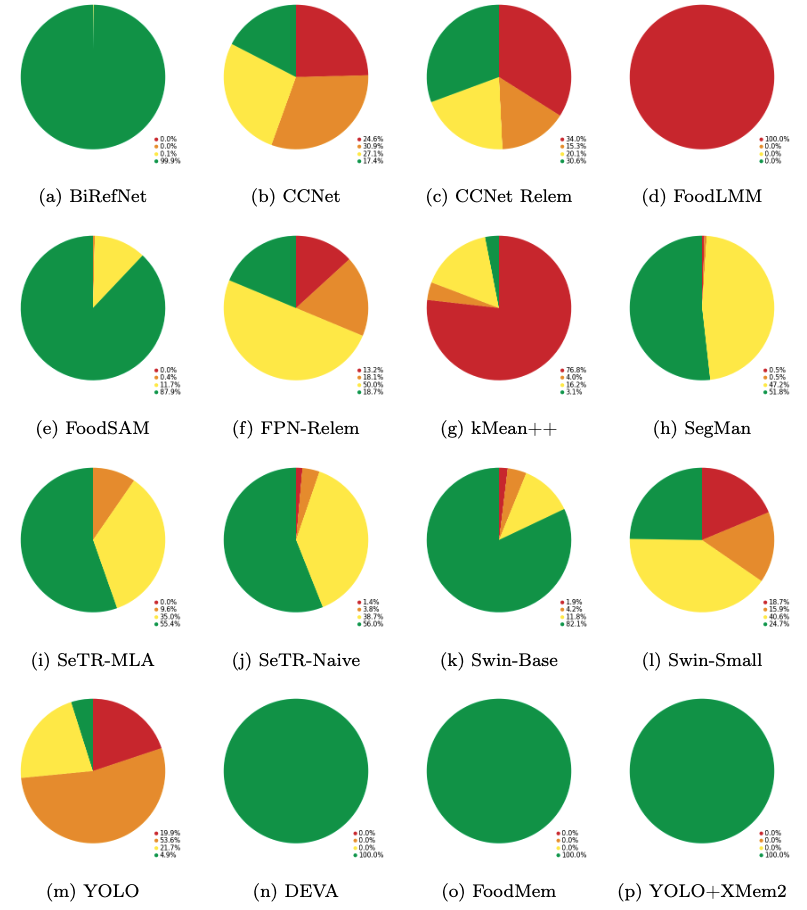
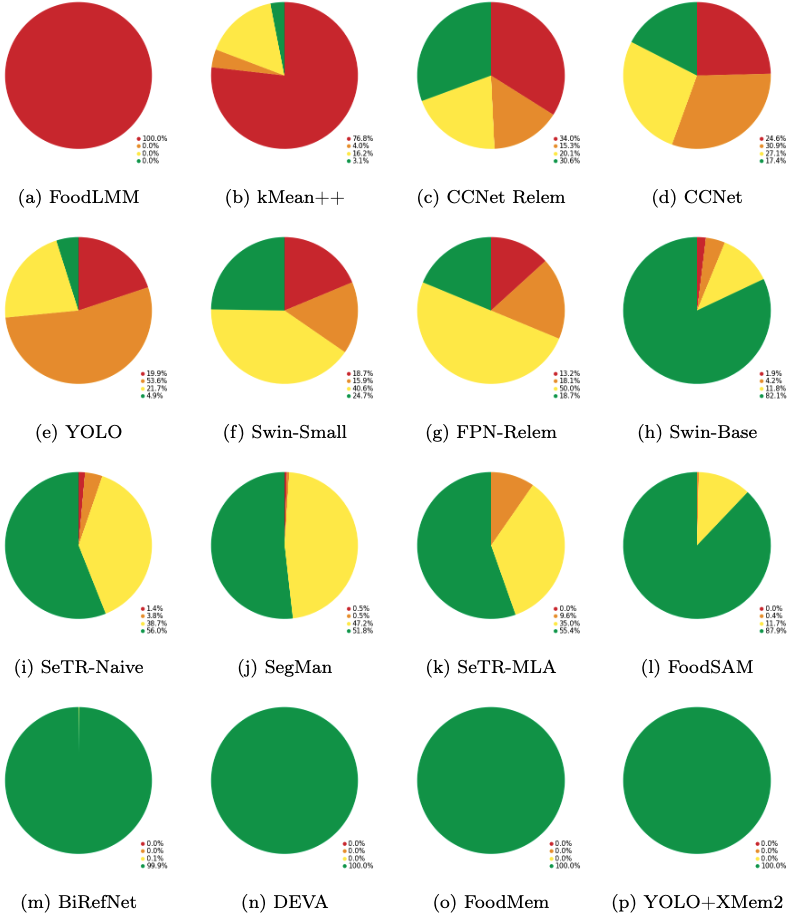
BenchSeg

diff --git a/BenchSeg/index.html b/BenchSeg/index.html
@@ -80,13 +80,13 @@
                         <a href="#">
                             Hyunjun Jung
                         </a>
-                        <br>Technische Universität München
+                        <br>Technical University of Munich
                     </li>
                     <li class="list-inline-item author-item">
                         <a href="#">
                             Benjamin Busam
                         </a>
-                        <br>Technische Universität München
+                        <br>Technical University of Munich
                     </li>
                     <li class="list-inline-item author-item">
                         <a href="https://ricjm.github.io/">
@@ -117,9 +117,9 @@
                         </a>
                     </div>
                     <div class="pretrained-models" style="display: flex; flex-direction: column; align-items: center;">
-                        <a href="https://ubarcelona-my.sharepoint.com/:f:/g/personal/ahmad_almughrabi_ub_edu/IgCx8aqExIkET5Oc4SYkXx4LAU90ktza5oF0rYaRtMyJJ0Y?e=nChKFZ" style="display: flex; flex-direction: column; align-items: center; text-decoration: none;">
+                        <a href="https://ubarcelona-my.sharepoint.com/:u:/g/personal/ahmad_almughrabi_ub_edu/IQCvxTYvwLEXRohtfOP8a7QsAQMvgWsfI42CKtXNUpM_5uI?e=Xx1fLs" style="display: flex; flex-direction: column; align-items: center; text-decoration: none;">
                             <img src="imgs/pretrainedmodels.png" alt="Pretrained Models Icon" style="width:60px;height:60px;">
-                            <span style="text-align: center;">Pretrained models (??GB)</span>
+                            <span style="text-align: center;">Pretrained models (8.15GB)</span>
                         </a>
                     </div>
                     <div class="download-data" style="display: flex; flex-direction: column; align-items: center;">
@@ -148,7 +148,7 @@
         <div class="content mt-4" id="content4" style="text-align: center;">
             <h2>Experimental Results</h2>
             <img src="imgs/comparasions_baselines.png" alt="BenchSeg" style="text-align: center; width: 57%"/>
-            <img src="imgs/comparasions_pies.png" alt="The figure shows the comparison of camera locations for different methods on a Foodkit object, with cameras colored by mAP: red for ≤50%, orange for 50–75%, yellow for 75–95%, and green for ≥95%, highlighting differences in coverage and reliability across methods." style="text-align: center; width: 42%"/>
+            <img src="imgs/comparasions_pies.png" alt="The figure shows the comparison of camera locations for different methods on a Foodkit object, with cameras colored by mAP: red for ≤50%, orange for 50–75%, yellow for 75–95%, and green for ≥95%, highlighting differences in coverage and reliability across methods." style="text-align: center; width: 40%"/>
             <div style="text-align: justify">The figure shows the comparison of camera locations for different methods on a Foodkit object, with cameras colored by mAP: red for ≤50%, orange for 50–75%, yellow for 75–95%, and green for ≥95%, highlighting differences in coverage and reliability across methods.</div>
         </div>
         <div class="content mt-4" id="content5" style="text-align: center;">
